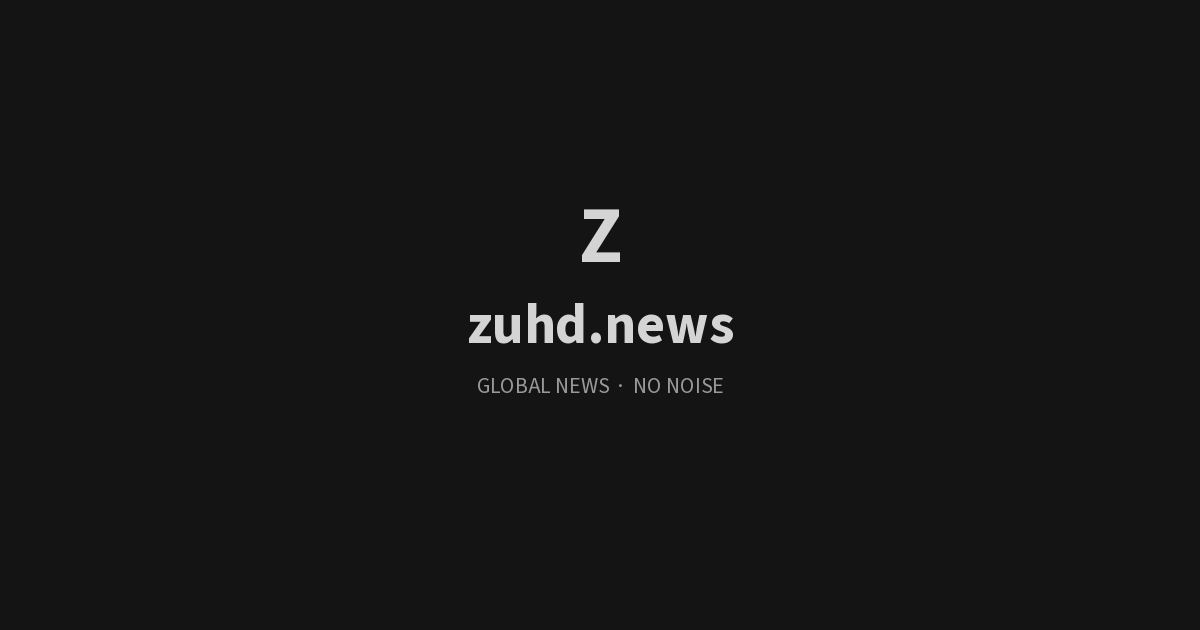
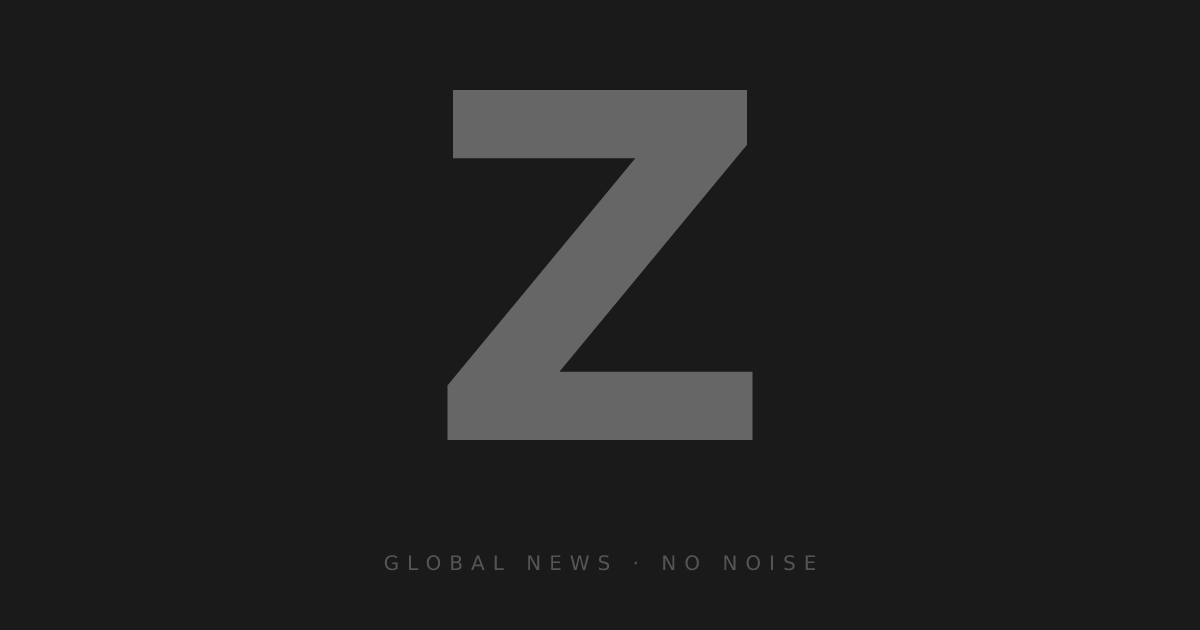
Enrich share previews: iconic Z image, full OG/Twitter meta tags
- New og-image.png with large iconic Z for recognisable share previews
- Article share function: add og:locale, article:published_time,
  article:section, explicit twitter:image
- Homepage template: add og:locale, explicit twitter:image
- Add @resvg/resvg-js dependency (used to generate the OG image)

diff --git a/functions/a/[slug].js b/functions/a/[slug].js
@@ -37,6 +37,8 @@ export async function onRequest({ params }) {
       (article.sentences || [article.body]).join(' ').slice(0, 200)
     )
     const source = escapeHtml(article.source || 'zuhd.news')
+    const category = escapeHtml(article.category || 'politics')
+    const pubDate = article.date || ''
 
     const html = `<!DOCTYPE html>
 <html lang="en">
@@ -51,9 +53,13 @@ export async function onRequest({ params }) {
   <meta property="og:url" content="${SITE}/a/${slug}">
   <meta property="og:site_name" content="zuhd.news">
   <meta property="og:type" content="article">
+  <meta property="og:locale" content="en_US">
+  <meta property="article:published_time" content="${pubDate}">
+  <meta property="article:section" content="${category}">
   <meta name="twitter:card" content="summary_large_image">
   <meta name="twitter:title" content="${title}">
   <meta name="twitter:description" content="${body}">
+  <meta name="twitter:image" content="${SITE}/og-image.png">
   <meta name="description" content="${body}">
   <meta name="author" content="${source}">
   <script>location.replace("${SITE}/#${slug}")</script>

diff --git a/templates/index.html b/templates/index.html
@@ -15,7 +15,9 @@
   <meta property="og:image" content="https://zuhd.news/og-image.png">
   <meta property="og:image:width" content="1200">
   <meta property="og:image:height" content="630">
+  <meta property="og:locale" content="en_US">
   <meta name="twitter:card" content="summary_large_image">
+  <meta name="twitter:image" content="https://zuhd.news/og-image.png">
 </head>
 <body>
   <header>
